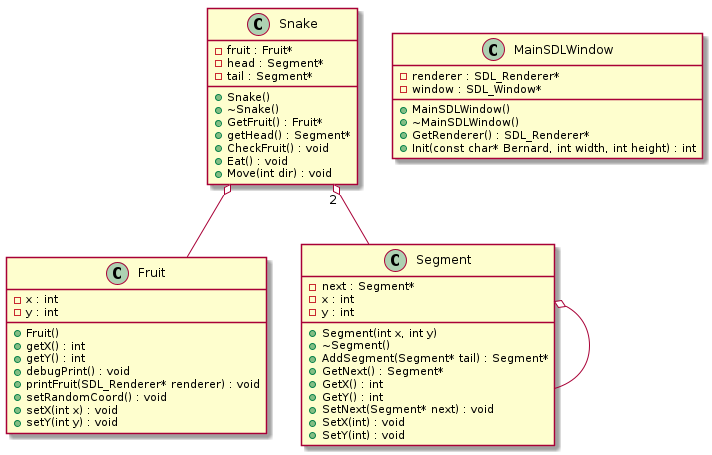
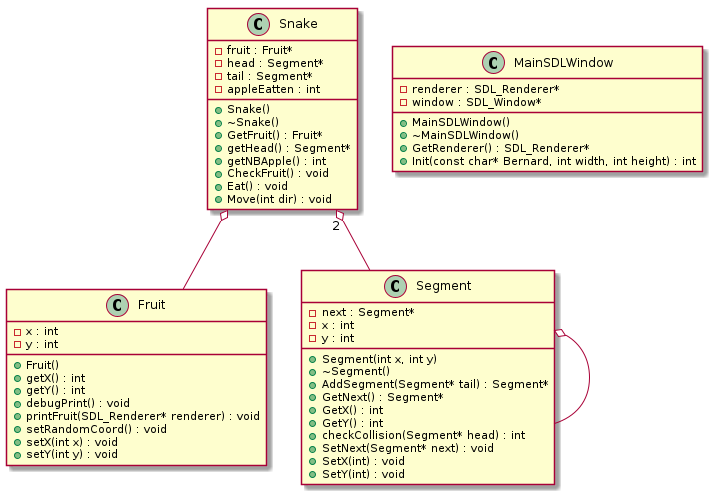
final RC3

diff --git a/main.cpp b/main.cpp
@@ -12,7 +12,7 @@ int lose;
 int game_paused = 1;
 int dir = 0;
 
-void keyboard(Snake *snake)
+void keyboard()
 {
   const Uint8 *keystates = SDL_GetKeyboardState(NULL);
   if (keystates[SDL_SCANCODE_UP] && dir != DOWN)
@@ -35,8 +35,6 @@ void keyboard(Snake *snake)
   {
     game_paused = !game_paused;  
   }
-  if (keystates[SDL_SCANCODE_TAB])
-    printf("SCORE: %d\n", snake->getNBApple());
 }
 
 int main()
@@ -49,9 +47,11 @@ int main()
 
   srand(time(NULL));
   Snake *snake = new Snake();
+
   do
   {
-    keyboard(snake);
+
+    keyboard();
     if (dir != 0) game_paused = 0;
     if (game_paused == 0) {
       snake->Move(dir);

diff --git a/MainSDLWindow.cpp b/MainSDLWindow.cpp
@@ -1,4 +1,5 @@
 #include <SDL2/SDL.h>
+
 #include "MainSDLWindow.hpp"
 #define IsGameRunning = 1
 
@@ -45,7 +46,6 @@ int MainSDLWindow::Init(const char *Bernard, int width, int height)
     }
     else
     {
-        printf("Pas d'erreurs");
         return EXIT_SUCCESS;
     }
     SDL_SetRenderDrawColor(renderer, 0, 0, 0, 0);

diff --git a/snake.cpp b/snake.cpp
@@ -84,7 +84,8 @@ int Snake::getNBApple()
 
 void Snake::Eat()
 {
-  
+  printf("SCORE: %d\n", appleEatten);
+
   tail=tail->AddSegment(tail);
 
 }
